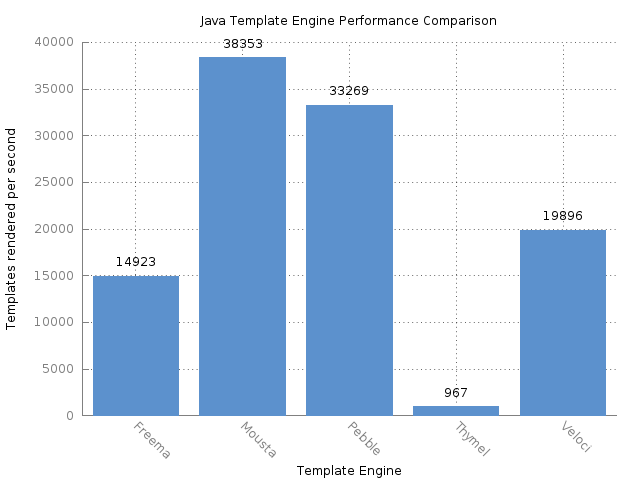
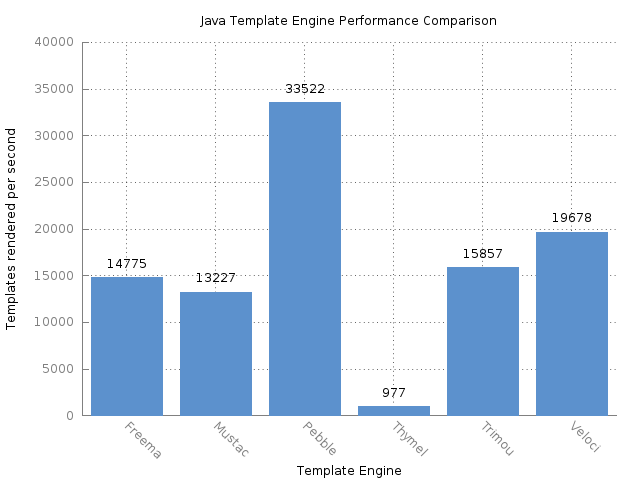
Cleanup of mustache related code to help minimize the impact that the benchmark code has on performance

diff --git a/src/main/resources/templates/stocks.mustache.html b/src/main/resources/templates/stocks.mustache.html
@@ -54,7 +54,7 @@
    		</thead>
    		<tbody>
 			{{#items}}
-    		<tr class="{{#rowClass}}{{index}}{{/rowClass}}">
+    		<tr class="{{rowClass}}">
      			<td>{{index}}</td>
     			<td>
       				<a href="/stocks/{{value.symbol}}">{{value.symbol}}</a>
@@ -65,8 +65,8 @@
      			<td>
       				<strong>{{value.price}}</strong>
      			</td>
-			     <td{{#negativeClass}}{{value.change}}{{/negativeClass}}>{{value.change}}</td>
-			     <td{{#negativeClass}}{{value.change}}{{/negativeClass}}>{{value.ratio}}</td>
+			     <td{{negativeClass}}>{{value.change}}</td>
+			     <td{{negativeClass}}>{{value.ratio}}</td>
     		</tr>
 			{{/items}}
    		</tbody>

diff --git a/src/main/java/com/mitchellbosecke/benchmark/Mustache.java b/src/main/java/com/mitchellbosecke/benchmark/Mustache.java
@@ -14,7 +14,7 @@ import org.openjdk.jmh.annotations.Setup;
 import com.github.mustachejava.DefaultMustacheFactory;
 import com.github.mustachejava.MustacheException;
 import com.github.mustachejava.MustacheFactory;
-import com.google.common.base.Function;
+import com.mitchellbosecke.benchmark.model.Stock;
 
 public class Mustache extends BaseBenchmark {
 
@@ -39,25 +39,7 @@ public class Mustache extends BaseBenchmark {
         };
         template = mustacheFactory.compile("templates/stocks.mustache.html");
         Map<String, Object> data = getContext();
-        // TODO this is not nice but I'm not aware of any better solution
-        data.put("items", new DecoratedCollection<Object>((Collection<Object>) data.get("items")));
-        data.put("negativeClass", new Function<String, String>() {
-            @Override
-            public String apply(String input) {
-                if (input == null || input.length() == 0) {
-                    return "";
-                }
-                Double value = Double.valueOf(input);
-                return value > 0 ? "" : " class=\"minus\"";
-            }
-        });
-        data.put("rowClass", new Function<String, String>() {
-            @Override
-            public String apply(String input) {
-                Integer value = Integer.valueOf(input);
-                return (value.intValue() % 2 == 0) ? "even" : "odd";
-            }
-        });
+        data.put("items", new StockCollection((Collection<Stock>) data.get("items")));
         this.context = data;
     }
 
@@ -69,22 +51,25 @@ public class Mustache extends BaseBenchmark {
     }
 
     /**
-     * This is a modified copy of {@link com.github.mustachejava.util.DecoratedCollection} - we need the first element at index 1.
+     * This is a modified copy of
+     * {@link com.github.mustachejava.util.DecoratedCollection} - we need the
+     * first element at index 1.
      *
      * @param <T>
      */
-    private class DecoratedCollection<T> extends AbstractCollection<Element<T>> {
+    private class StockCollection extends AbstractCollection<StockView> {
 
-        private final Collection<T> c;
+        private final Collection<Stock> c;
 
-        public DecoratedCollection(Collection<T> c) {
+        public StockCollection(Collection<Stock> c) {
             this.c = c;
         }
 
         @Override
-        public Iterator<Element<T>> iterator() {
-            final Iterator<T> iterator = c.iterator();
-            return new Iterator<Element<T>>() {
+        public Iterator<StockView> iterator() {
+            final Iterator<Stock> iterator = c.iterator();
+            return new Iterator<StockView>() {
+
                 int index = 1;
 
                 @Override
@@ -93,10 +78,10 @@ public class Mustache extends BaseBenchmark {
                 }
 
                 @Override
-                public Element<T> next() {
-                    T next = iterator.next();
+                public StockView next() {
+                    Stock next = iterator.next();
                     int current = index++;
-                    return new Element<T>(current, current == 1, !iterator.hasNext(), next);
+                    return new StockView(current, current == 1, !iterator.hasNext(), next);
                 }
 
                 @Override
@@ -112,17 +97,27 @@ public class Mustache extends BaseBenchmark {
         }
     }
 
-    class Element<T> {
-        public final int index;
-        public final boolean first;
-        public final boolean last;
-        public final T value;
+    class StockView {
 
-        public Element(int index, boolean first, boolean last, T value) {
+        public final int index;
+
+        public final boolean first;
+
+        public final boolean last;
+
+        public final Stock value;
+
+        public final String negativeClass;
+
+        public final String rowClass;
+
+        public StockView(int index, boolean first, boolean last, Stock value) {
             this.index = index;
             this.first = first;
             this.last = last;
             this.value = value;
+            this.negativeClass = value.getChange() > 0 ? "" : "class=\"minus\"";
+            this.rowClass = index % 2 == 0 ? "even" : "odd";
         }
     }
 

diff --git a/README.md b/README.md
@@ -1,7 +1,7 @@
 template-benchmark
 ================
 
-JMH benchmark for the popular Java template engines:
+JMH benchmark for popular Java template engines:
 
 * Freemarker
 * Mustache
